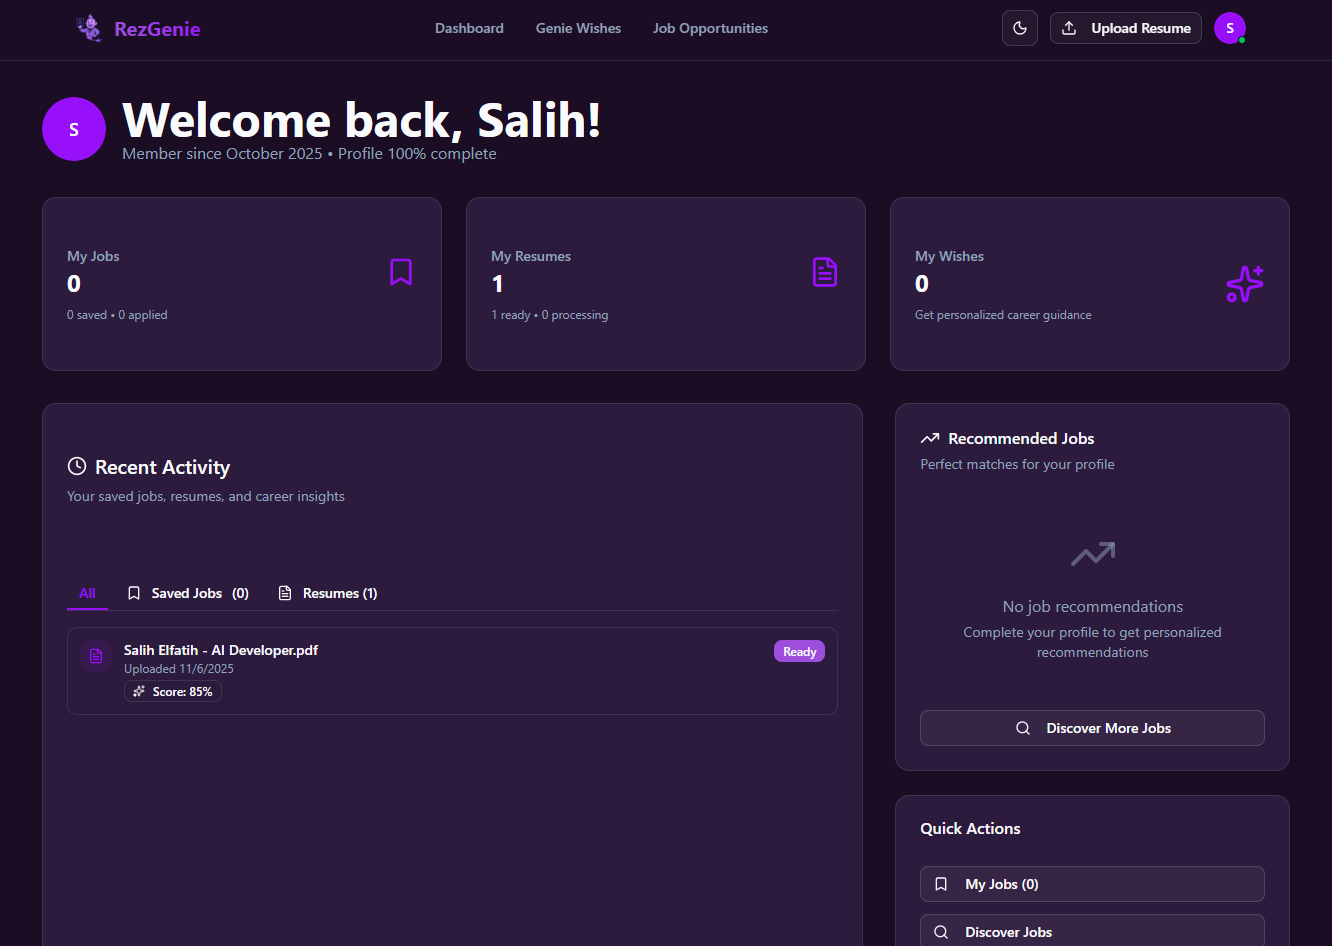
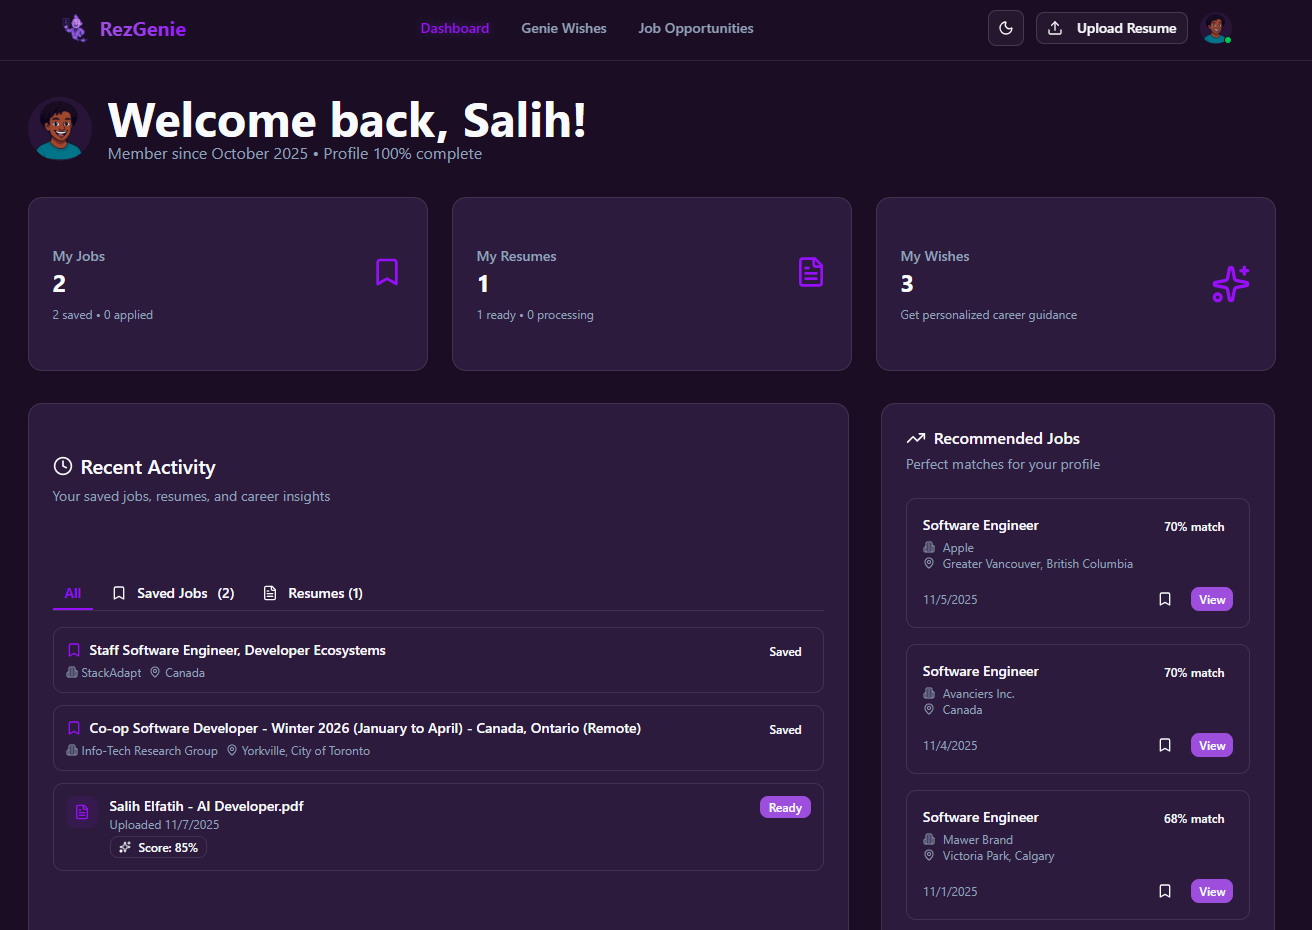
Update README with latest screenshots
Documentation Updates: - Refreshed dashboard screenshot with current UI - Added new opportunities.png screenshot

diff --git a/README.md b/README.md
@@ -176,6 +176,9 @@ Modern, responsive web application with comprehensive UI/UX:
 ### Dashboard
 ![Dashboard](docs/images/dashboard.png)
 
+### Job Opportunities Page
+![Opportunities](docs/images/opportunities.png)
+
 ## 📄 License
 
 This project is licensed under the MIT License - see the [LICENSE](LICENSE) file for details.
